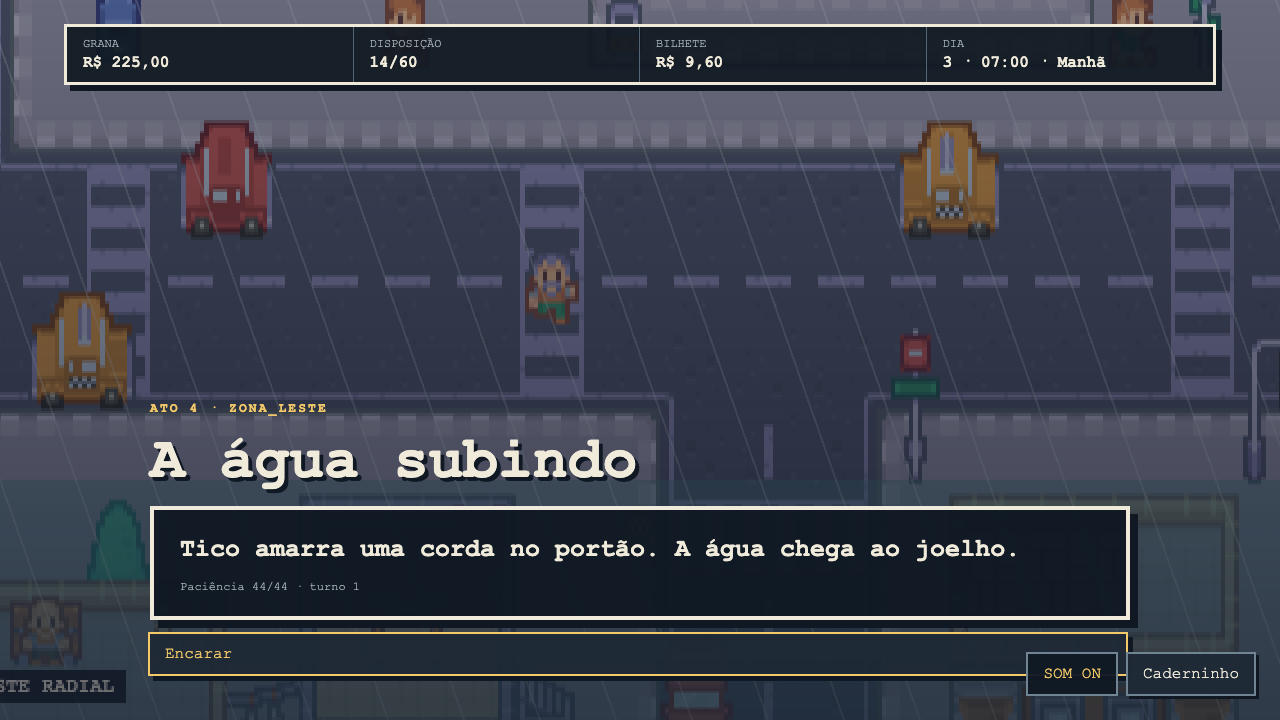
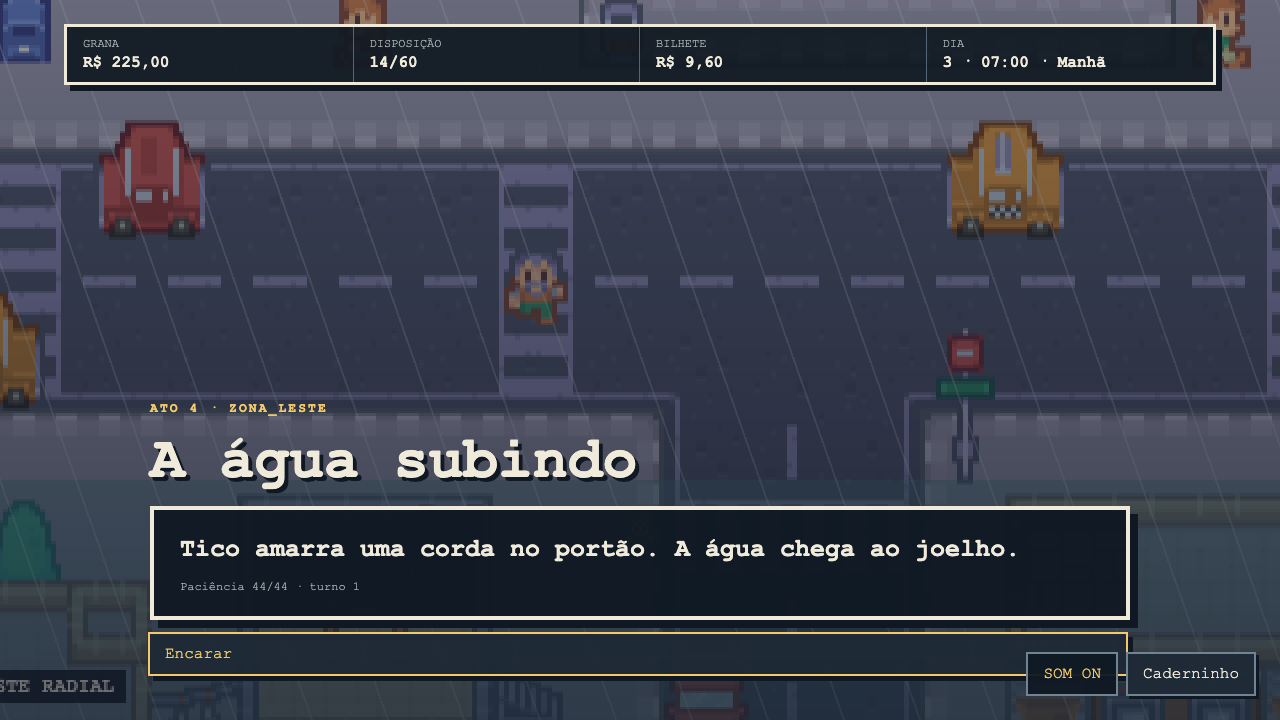
fix: preserve pixel art aspect ratio

diff --git a/src/engine/backdrop.ts b/src/engine/backdrop.ts
@@ -101,7 +101,7 @@ export class WorldScene extends Phaser.Scene {
     this.createActors(bridge.presentation.actors)
     this.player = this.physics.add
       .sprite(MAP_WIDTH * TILE * 0.5, MAP_HEIGHT * TILE * 0.8, 'kenney-people', 24)
-      .setScale(1.5)
+      .setScale(4 / 3)
     this.player.setSize(10, 6).setOffset(3, 10).setCollideWorldBounds(true).setDepth(10)
     this.physics.add.collider(this.player, this.obstacles)
     this.physics.add.collider(this.player, this.actors)
@@ -157,7 +157,7 @@ export class WorldScene extends Phaser.Scene {
       const y = 12.1 * TILE
       const sprite = this.physics.add
         .staticSprite(x, y, 'kenney-people', npcFrame(actor.id))
-        .setScale(1.5)
+        .setScale(4 / 3)
         .setDepth(8)
       sprite.setData('actionId', actor.id)
       sprite.setData('label', actor.label)
